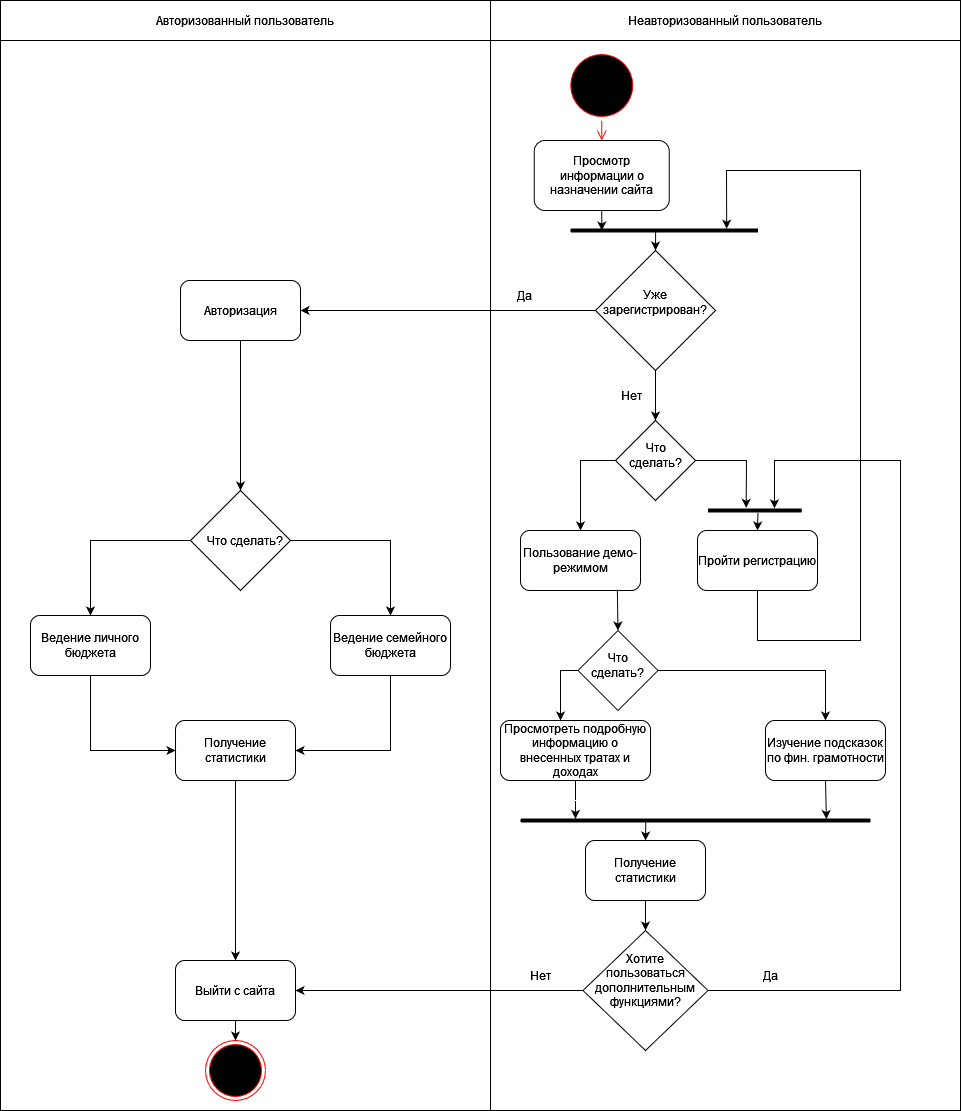
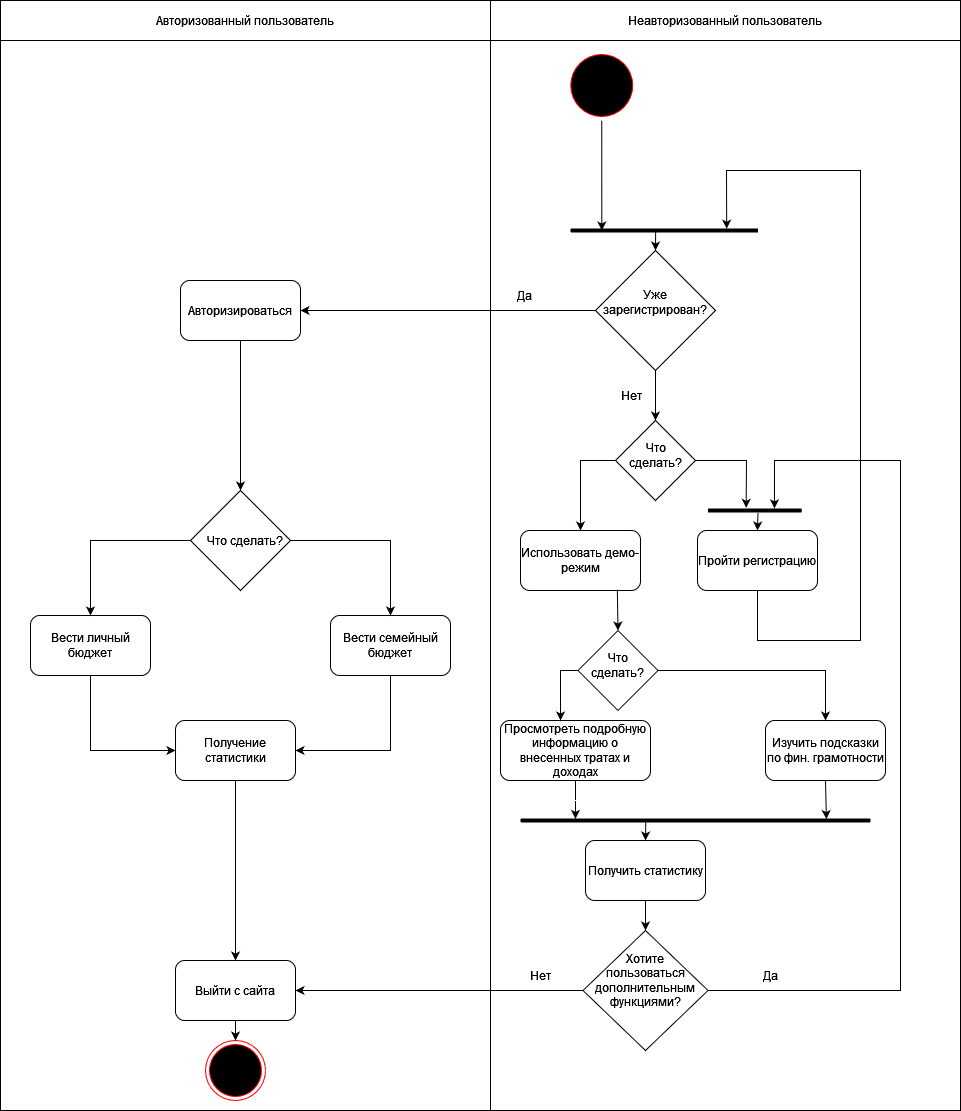
docs: fix diagrams due to technical task

diff --git a/diagrams.md b/diagrams.md
@@ -1,33 +1,31 @@
-# Диаграммы 
+# Диаграммы
 ### Диаграмма прецендентов для неавторизованного пользователя
-![use case](documentation/diagrams/Use_case_diagram_nonau.png)
-### Диаграмма прецендентов для приглашенного пользователя
-![use case](documentation/diagrams/Use_case_diagram_invited.png)
+![use case non-auth](documentation/diagrams/Use_case_diagram_nonau.png)
 ### Диаграмма прецендентов для авторизованного пользователя
-![use case](documentation/diagrams/Use_case_diagram_au.png)
+![use case auth](documentation/diagrams/Use_case_diagram_au.png)
 ### Диаграмма активностей
 ![activity diagram](documentation/diagrams/Activity_diagram.png)
-### Диаграмма состояния пользователя 
-![statechart diagram](documentation/diagrams/Statechart_diagram_user.png)
+### Диаграмма состояния пользователя
+![statechart diagram user](documentation/diagrams/Statechart_diagram_user.png)
 ### Диаграмма состояния группы
-![statechart diagram](documentation/diagrams/Statechart_diagram_group.png)
+![statechart diagram group](documentation/diagrams/Statechart_diagram_group.png)
 ### Диаграмма последовательности авторизованного пользователя
-![seguence diagram](documentation/diagrams/Sequence_diagram_au.png)
-### Диаграмма последовательности неавторизованного пользователя 
-![seguence diagram](documentation/diagrams/Sequence_diagram_nonau.png)
-### Диаграмма IDEF0 0 уровень 
-![IDEF0](documentation/diagrams/IDEF0_A0_0level.png)
+![seguence diagram auth](documentation/diagrams/Sequence_diagram_au.png)
+### Диаграмма последовательности неавторизованного пользователя
+![seguence diagram non-auth](documentation/diagrams/Sequence_diagram_nonau.png)
+### Диаграмма IDEF0 0 уровень
+![IDEF0 lvl-0](documentation/diagrams/IDEF0_A0_0level.png)
 ### Диаграмма IDEF0 1 уровень
-![IDEF0](documentation/diagrams/IDEF0_A0_1level.png)
+![IDEF0 lvl-1](documentation/diagrams/IDEF0_A0_1level.png)
 ### Диаграмма развертывания
 ![deployment diagram](documentation/diagrams/Deployment_diagram.png)
 ### Диаграмма сотруднечества авторизации
-![collaboration diagram](documentation/diagrams/Collaboration_diagram_au.png)
+![collaboration diagram auth](documentation/diagrams/Collaboration_diagram_au.png)
 ### Диаграмма сотруднечества трат
-![collaboration diagram](documentation/diagrams/Collaboration_diagram_spend.png)
+![collaboration diagram spending](documentation/diagrams/Collaboration_diagram_spend.png)
 ### Диаграмма сотруднечества статистики
-![collaboration diagram](documentation/diagrams/Collaboration_diagram_stat.png)
+![collaboration diagram stats](documentation/diagrams/Collaboration_diagram_stat.png)
 
 
 
-[Вернуться к readme](README.md) 
+[Вернуться к readme](README.md)
